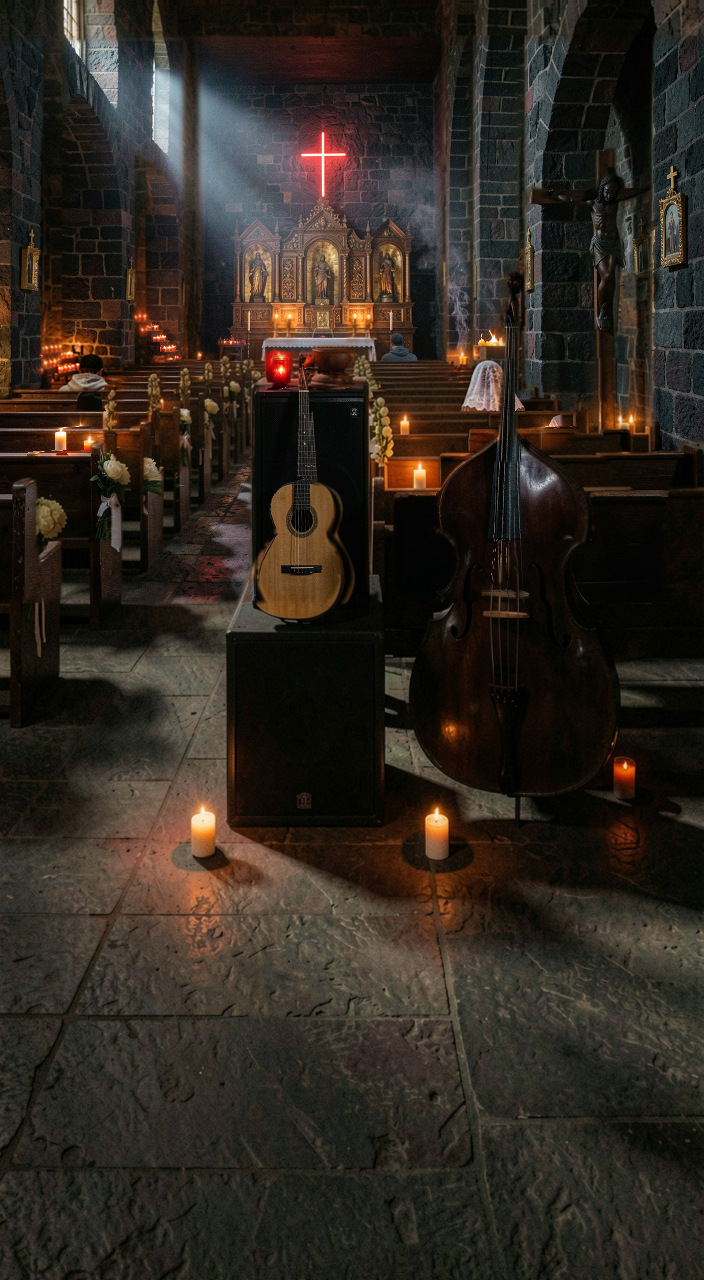
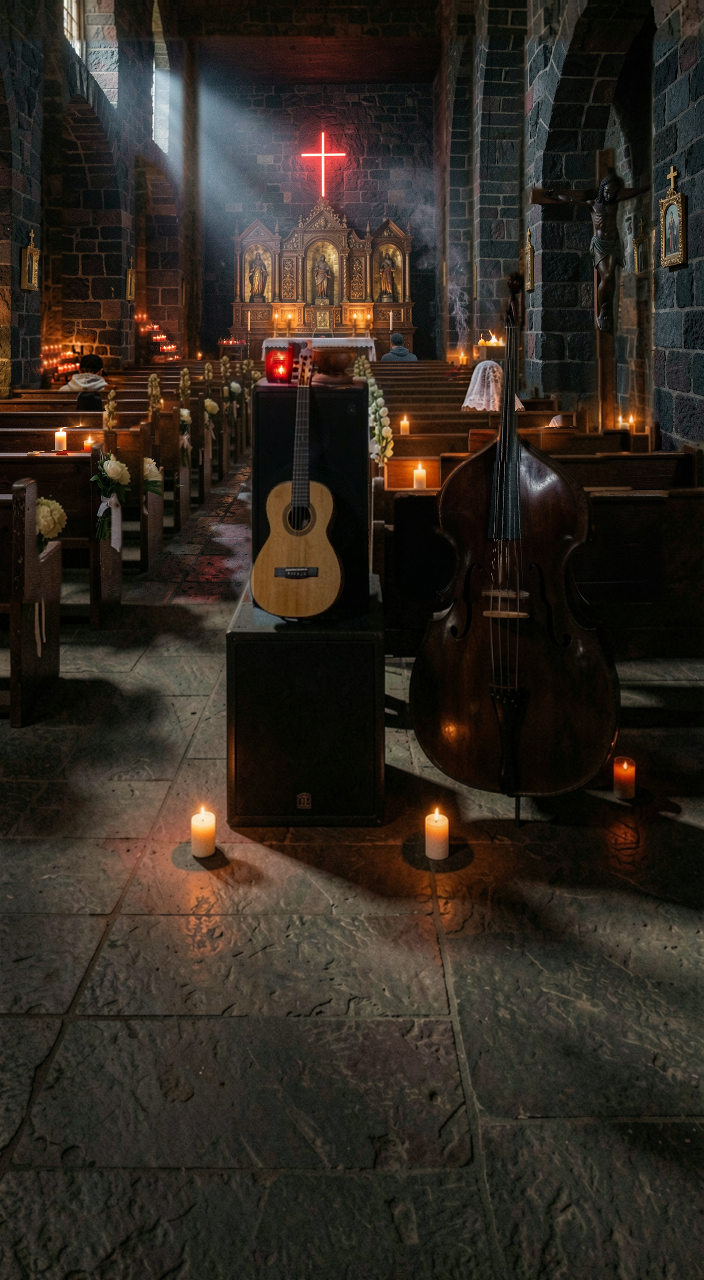
feat(santuario): placa real v5 de los dos formatos con gente (G4, 06 v6)
NR + Klein 4 MP + placa_real.py con el tono del NR de la placa nueva;
guitarra vertical rehecha con la nativa de Klein (salía deforme de la
reproyección). Elegidas por el usuario: s2 en los dos.

Claude-Session: https://claude.ai/code/session_019Unq9geEEucFgna5RBF8x3

Changed region(s): [[0.3438, 0.25, 0.5, 0.5], [0.5, 0.2812, 0.5625, 0.375], [0.3125, 0.2812, 0.3438, 0.3125]]

diff --git a/.wayfinder/santuario/tickets/06-movil.md b/.wayfinder/santuario/tickets/06-movil.md
@@ -254,3 +254,18 @@ Disposición (`disposicion.py`, `hoja_disp_esc.png`, `hoja_disp_vert.png`, verde
   de la silueta en gris + la figura de escritorio como referencia), pegado dentro de la silueta de maqueta ∪ capa, sólo
   donde la escena vacía queda detrás del plano. Elegidas: mujer s22, joven s11. En la vertical la texana queda justo
   debajo del joven (la geometría de la 4.ª y la 6.ª banca desde esa cámara); el usuario la aprobó así.
+- **G4, placa real v5 de los dos formatos (2026-10-13), elegida por el usuario: s2 en los dos.** Escritorio
+  `tmp/props-06/nave_g4_esc.png`, vertical `nave_g4_vert.png`, disparidades de MoGe `nave_g4_*_disp.png` (todo también
+  en `entrega/placas`). Cadena de v5 (ticket 14) en `tmp/props-06/g4/`: DLSS NR `--nr-color 0` de la placa → Klein 4 MP
+  con el prompt de `mto_placa_real_s2b.json` **cambiando el final "no people"** por "the same people … no added people"
+  (`klein_real.sh`) → vertical: `alinear_flujo.py` → `placa_real.py` con el tono del NR de la **placa nueva** (el NR
+  de v5 es de la placa sin pila: su luz fina σ 8 borraría la gente) y los PROF de v5 → `moge.sh` (grafo API de v5 por
+  curl). La gente sale igual (la luz fina viene del NR). Vista con foco en la guitarra (`dof.py`, FOCO_D 0.60 / 0.50);
+  el foco del loop va en el micro (G5/G6). Escalas de disparidad iguales a v5 (fondo y piso), salvo la guitarra vertical,
+  más cerca por la pila (0.50 contra 0.36).
+  - **Guitarra vertical** (el usuario: "rara", luego "cortada abajo a la izquierda"): venía de G3, la guitarra de la
+    maqueta es más grande que la de Klein; la reproyección estiraba el borde y la base de huecos añadía un segundo
+    contorno. `guitarra_g3.py`: la guitarra nativa de la vertical de Klein (`s33_vacia_s7`), alineada, con media y
+    desviación Lab de la de escritorio, en la cara del altavoz + franja del cuello + la guitarra de s33 dilatada (sobresale
+    del altavoz por la izquierda). `nave_g3.png` es ya esa versión (la anterior, `nave_g3_v0.png`). El logo del altavoz
+    vertical se pierde.
